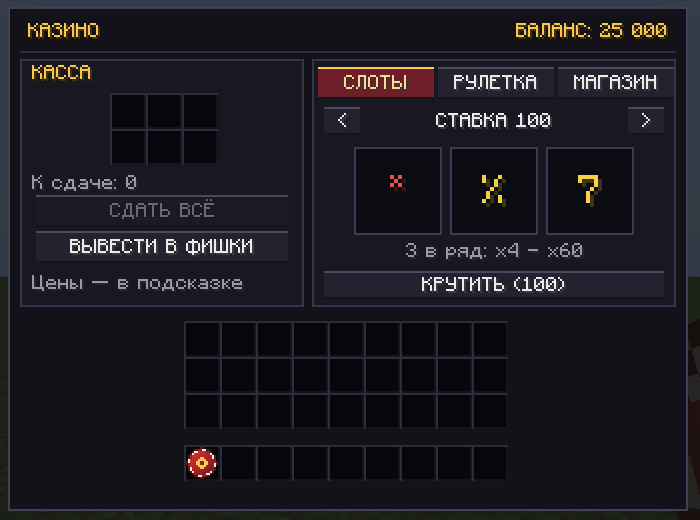
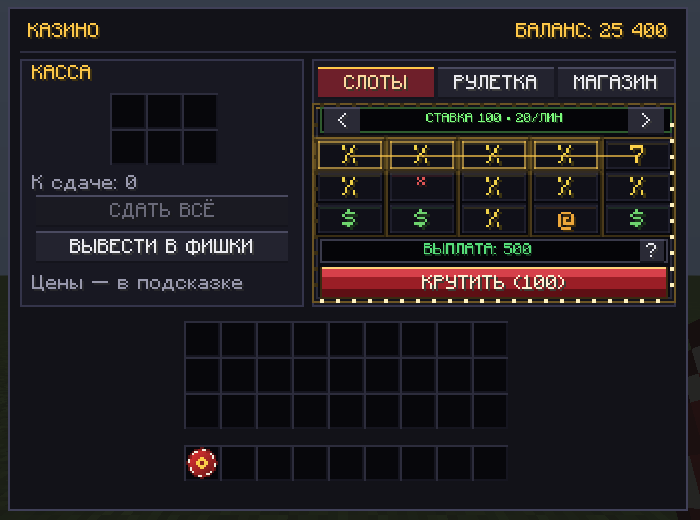
Release 1.7.0: 5x3 casino slots, cabinet design and effects

Changed region(s): [[0.42, 0.1846, 0.99, 0.5846], [0.9, 0.0308, 0.93, 0.0923]]

diff --git a/CHANGELOG.md b/CHANGELOG.md
@@ -2,7 +2,7 @@
 
 All notable changes to CasinoCraft.
 
-## 1.7.0 (unreleased)
+## 1.7.0
 
 * Added BIG/MEGA/EPIC win celebrations at 10×/25×/100× total stake: bounded coin showers, soft glow, payout count-up and separately labeled net profit. Click finishes the counter; Esc, tabs, paytable and new spins dismiss it. Works for slots and roulette.
 
